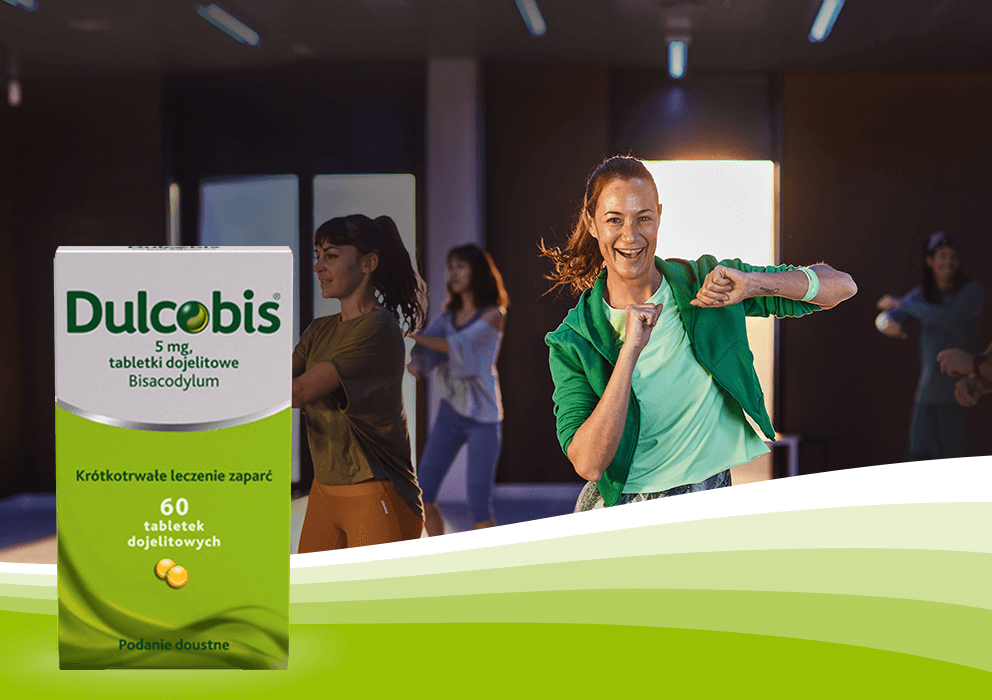
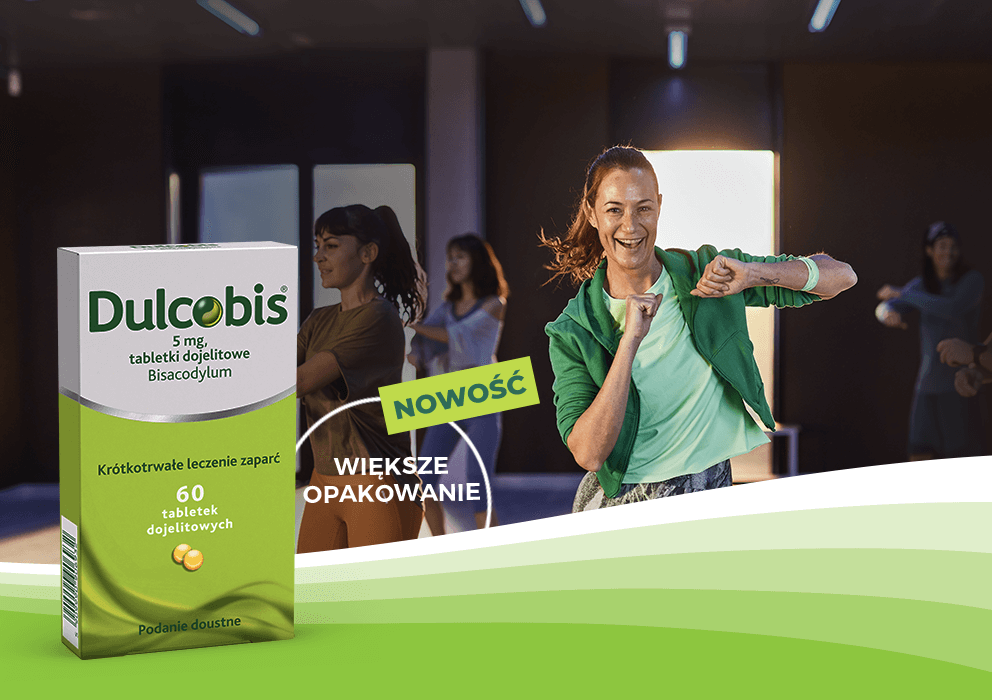
feat: add rc fixes and change background and label

diff --git a/index.html b/index.html
@@ -23,10 +23,10 @@
           <div class="container  es-kv__container position-relative">
             <img loading="lazy" class="img-fluid w-100 es-kv__mobile" src="./static/images/es-kv--mobile.png" alt="Dulcobis zastosowany wieczorem przynosi ulgę w zaparciach o poranku">
             <img loading="lazy" class="img-fluid w-100 es-kv__desktop" src="./static/images/es-kv--desktop.png" alt="Dulcobis zastosowany wieczorem przynosi ulgę w zaparciach o poranku">
-
+            <img class="img-fluid position-absolute es-kv__pills" src="./static/images/60-pills.png" alt="60 tabletek to 60 razy dzień dobry">
             <div class="es-kv__packshotCtn">
               <div class="es-kv__title">
-                <p class="es-kv__text"><span class="es-kv__text--span">Zastosowany wieczorem</span>przynosi ulgę w zaparciach<span class="es-kv__text--span">o poranku<sup>1</sup></span></p>
+                <p class="es-kv__text"><span class="es-kv__text--span">Zastosowany wieczorem</span>przynosi ulgę w zaparciach<span class="es-kv__text--span">o&nbsp;poranku<sup>1</sup></span></p>
               </div>
             </div>
           </div>
@@ -148,7 +148,7 @@
                 <div class="es-image-box">
                   <img loading="lazy" alt="ikona jelita - działanie Dulcobis" class="img-fluid rounded" src="./static/images/why-1.png">
                 </div>
-                <h3 class="mt-3 es-features__title">Szybkość działania</h3>
+                <h3 class="mt-3 es-features__title">Szybkość&nbsp;działania</h3>
                 <p class="es-features__desc">Szybsza ulga w&nbsp;zaparciach<sup>8</sup> - Dulcobis przynosi ulgę w&nbsp;zaparciach już po 6h.<sup>4</sup></p>
               </div>
               <div class="col-6 col-sm-6 col-md-3 col-lg-3 flex-column justify-content-start es-features__box">
@@ -156,7 +156,7 @@
                   <img loading="lazy" alt="działanie opis" class="img-fluid rounded" src="./static/images/why-2.png">
                 </div>
                 <h3 class="mt-3 es-features__title">Potrójne działanie</h3>
-                <p class="es-features__desc">Dulcobis z potrójnym działaniem. Stymuluje, zmiękcza, przyspiesza. Zastosowany wieczorem przynosi ulgę w zaparciach o poranku.<sup>5</sup></p>
+                <p class="es-features__desc">Dulcobis z potrójnym działaniem. Stymuluje, zmiękcza, przyspiesza. Zastosowany wieczorem przynosi ulgę w zaparciach o&nbsp;poranku.<sup>5</sup></p>
               </div>
               <div class="col-6 col-sm-6 col-md-3 col-lg-3 flex-column justify-content-start es-features__box">
                 <div class="es-image-box">
@@ -379,7 +379,7 @@
                         </tr>
                         <tr>
                           <td colspan="3"> Przynosi ulgę w zaparciach już po 6h<sup>4</sup></td>
-                          <td>Szybka ulga w zaparciach już po 10 minutach<sup>9</sup></td>
+                          <td>Szybka ulga w&nbsp;zaparciach już po 10 minutach<sup>9</sup></td>
                         </tr>
                         <tr>
                           <td>Bisakodyl</td>
@@ -483,7 +483,7 @@
                     <li>Corsetti M. Bisacodyl: A review of pharmacology and clinical evidence to guide use in clinical practice in patients with constipation, Wiley Online Library, 2021, 1-13.</li>
                   </ol>
                 <p class="es-footer__text es-footer__text--2">
-                  Dulcobis, tabletki dojelitowe 5 mg bisakodylu. Wskazania: Krótkotrwałe, objawowe leczenie zaparć; przygotowanie do badań diagnostycznych, leczenie przed i pooperacyjne; stany wymagające ułatwienia defekacji. <em>{ChPL 04.2022}</em> Podmiot odpowiedzialny: Opella Healthcare Poland Sp. z o.o., grupa Sanofi
+                  Dulcobis, tabletki dojelitowe 5 mg bisakodylu. Wskazania: Krótkotrwałe, objawowe leczenie zaparć; przygotowanie do badań diagnostycznych, leczenie przed i pooperacyjne; stany wymagające ułatwienia defekacji. <em>{ChPL 04.2022}</em> Podmiot odpowiedzialny: Opella Healthcare Poland Sp. z o.o., grupa <span class="es-nowrap">Sanofi</span>
                 </p>
                 <p class="es-footer__text es-footer__text--3">
                   To jest lek. Dla bezpie&shy;czeństwa stosuj go zgodnie z ulotką dołączoną do opakowania. Nie przekraczaj maksymalnej dawki leku. W przypadku wątpliwości skonsultuj się z&nbsp;lekarzem lub farmaceutą.

diff --git a/sanofi.css b/sanofi.css
@@ -39,6 +39,11 @@
   margin-top: 0;
   padding: 0 0 1.5rem 0;
 }
+#es-rc #es-rc-content .es-kv__pills {
+  top: 69%;
+  left: 48%;
+  width: 60%;
+}
 
 #es-rc #es-rc-content {
   font-family: "Montserrat";
@@ -70,6 +75,12 @@
 #es-rc #es-rc-content .es-nowrap {
   white-space: nowrap;
 }
+#es-rc #es-rc-content ul li {
+  list-style: none;
+}
+#es-rc #es-rc-content ol li {
+  list-style: arabic;
+}
 #es-rc #es-rc-content .es-kv__container {
   padding: 0;
 }
@@ -89,6 +100,10 @@
 @media (min-width: 576px) {
   #es-rc #es-rc-content .es-kv__mobile {
     display: none;
+  }
+  #es-rc #es-rc-content .es-kv__pills {
+    top: 54.3%;
+    left: 48%;
   }
 }
 #es-rc #es-rc-content .es-kv__desktop {
@@ -470,7 +485,7 @@
   border: 3px solid white;
 }
 #es-rc #es-rc-content .es-cross .text-left--0 {
-  height: 80.3px;
+  height: 72.3px;
 }
 #es-rc #es-rc-content .es-cross .text-left--1 {
   height: 44.8px;
@@ -497,6 +512,7 @@
   border-radius: 10px;
 }
 #es-rc #es-rc-content .es-cross td {
+  text-align: center;
   vertical-align: middle;
   border: none;
   min-width: 150px;
@@ -586,6 +602,7 @@
   background-color: #FFF;
   color: #00604d;
   outline: 3px solid #00604d;
+  cursor: pointer;
 }
 @media (min-width: 992px) {
   #es-rc #es-rc-content .es-articles__button {
